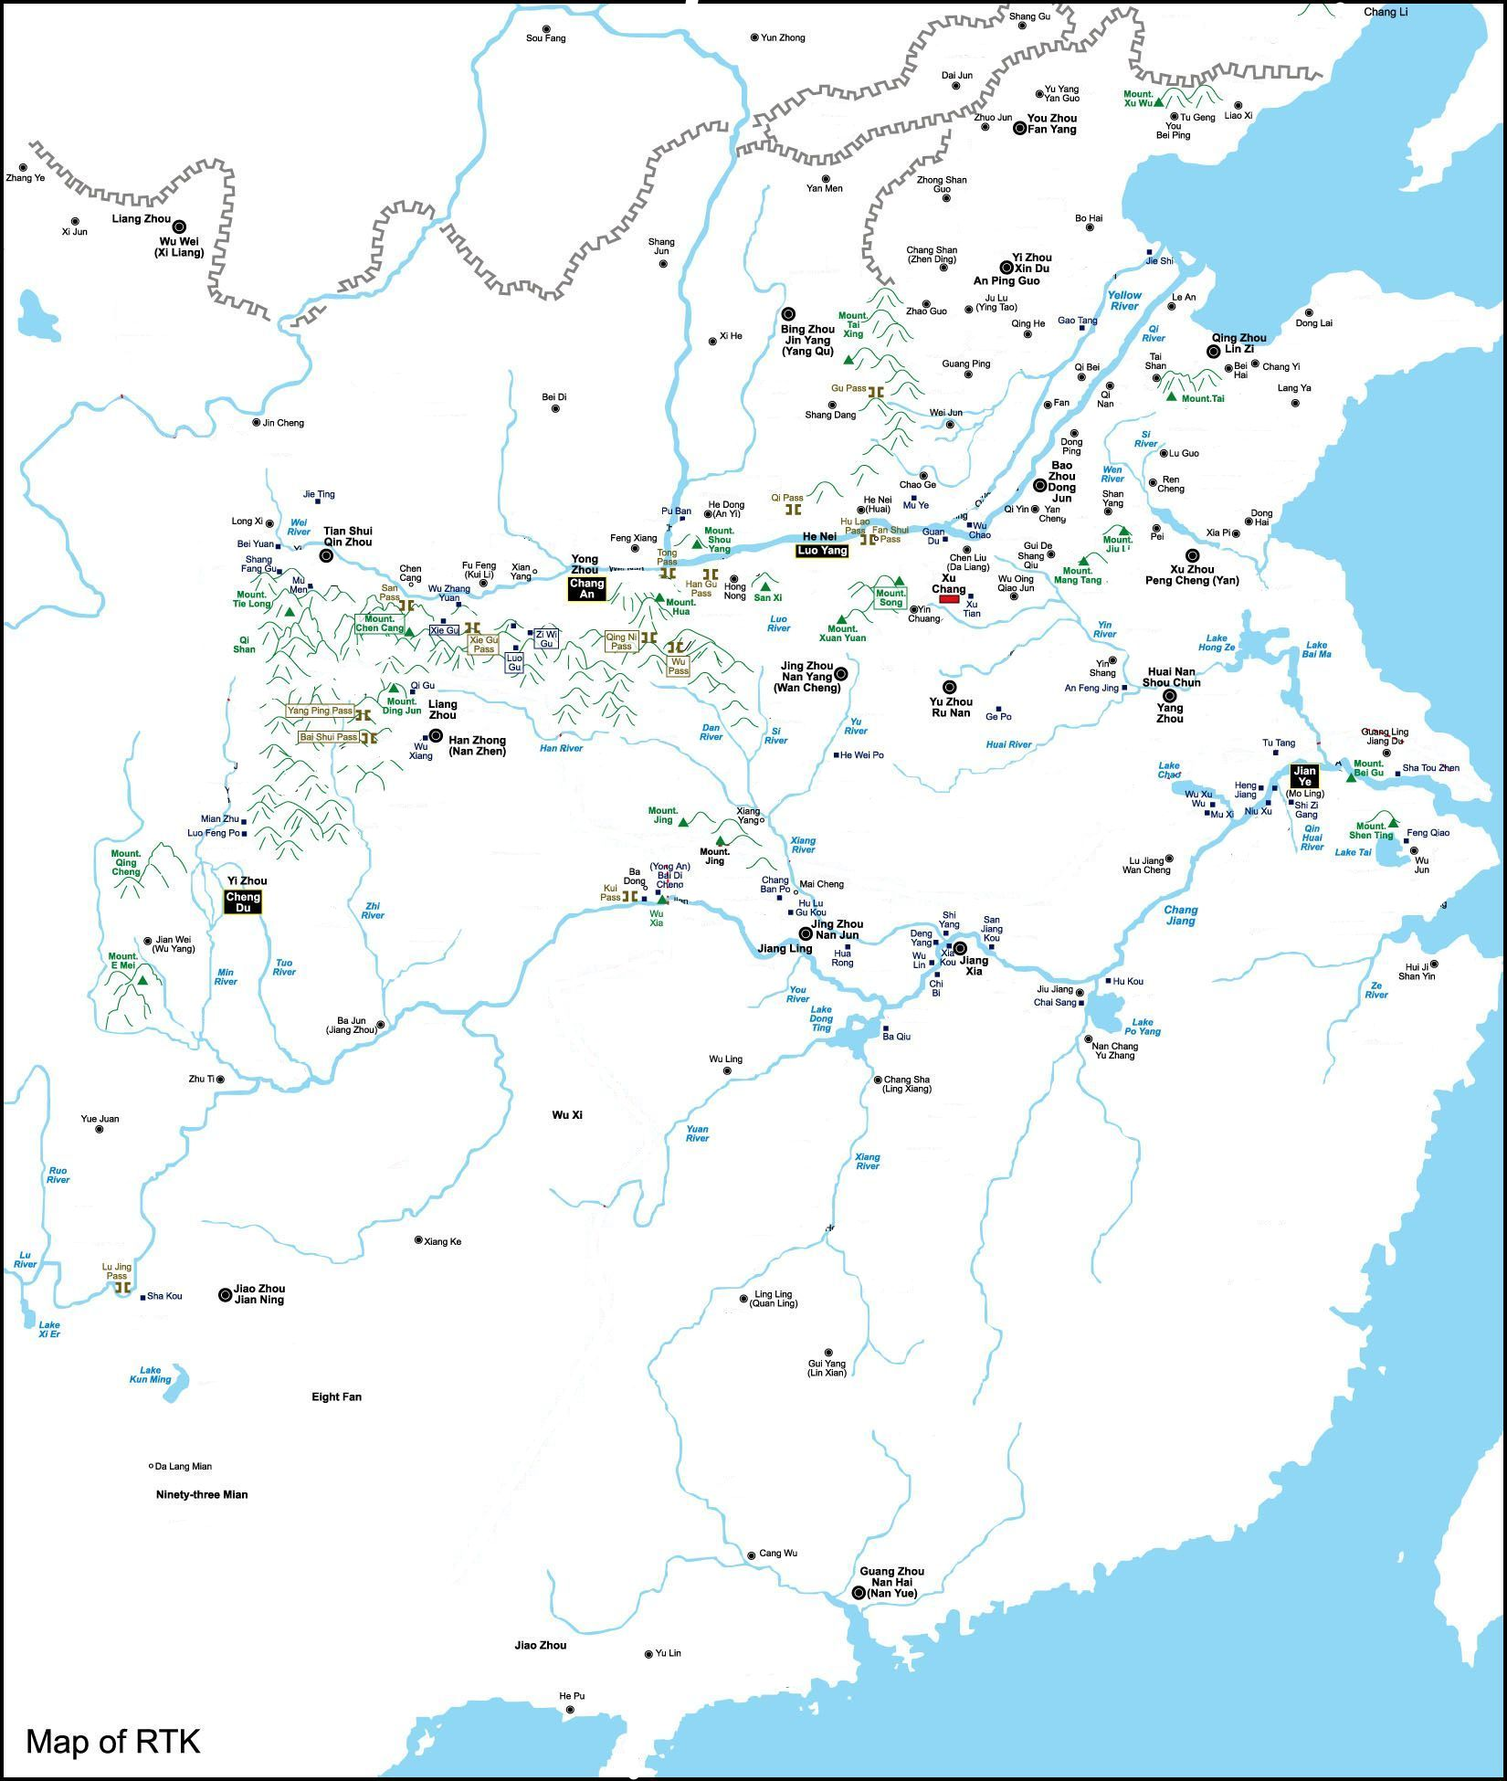
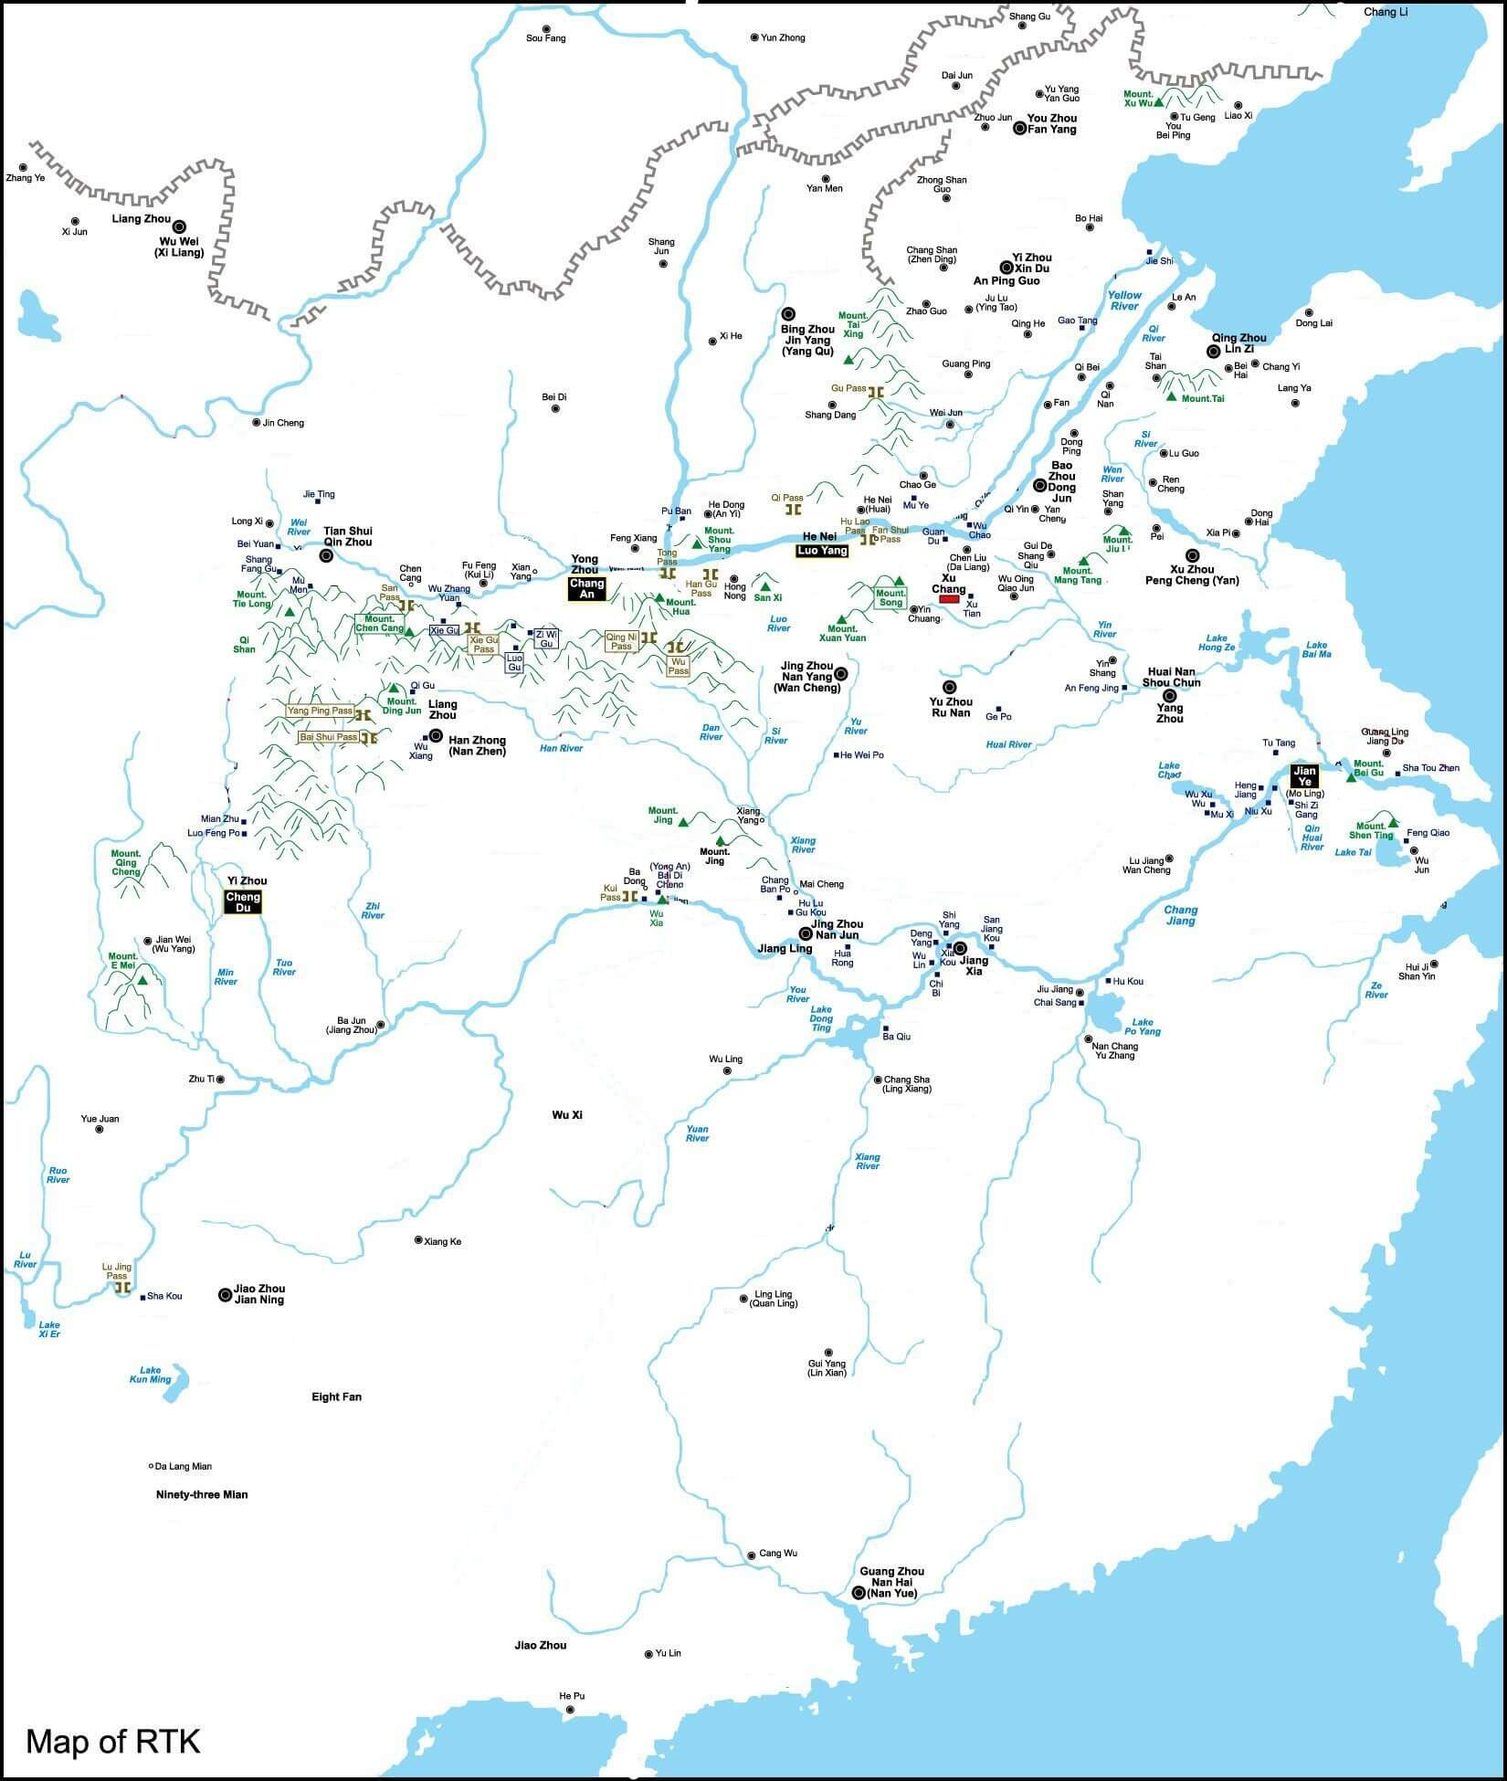
Compressed all images and recompiled

diff --git a/page/js/app.51b12fac.js b/page/js/app.51b12fac.js
@@ -1,0 +1,2 @@
+(function(){"use strict";var e={3157:function(e,t,i){var a=i(9242),o=i(3396),s=i(7139),n=i.p+"img/projectMap.0a0d6ebb.jpeg",r=i.p+"img/SWARD2.44b90788.jpeg",h=i.p+"img/1.c3b5c23a.png",l=i.p+"img/2.8c7e7f15.png",d=i.p+"img/3.e44b65ef.png",c=i.p+"img/Three_Kingdoms_timelapse.1d32699f.gif",u=i.p+"img/WTHisthislol.0641c29d.jpeg",f=i.p+"img/Poetry.de6cbcd2.png";const m={class:"topBar"},g=(0,o.Uk)("Home"),p=(0,o.Uk)("Taisei"),b=(0,o.Uk)("Maxwell"),w=(0,o.Uk)("Jackson"),v=(0,o.Uk)("Bradley"),y=(0,o.Uk)("Ethan"),T=(0,o.Uk)(" BEEENJIII!!!!!"),k=(0,o._)("div",{class:"main",id:"box1"},"The three kingdoms period of China",-1),_=(0,o._)("div",{class:"main",id:"intro"},"Introduction",-1),W=(0,o._)("div",{class:"main",id:"box2"},[(0,o.Uk)(' The Three Kingdoms (simplified Chinese: 三国; traditional Chinese: 三國) from 220 to 280 AD was the tripartite division of China among the dynastic states of Cao Wei, Shu Han, and Eastern Wu. The Three Kingdoms period was preceded by the Eastern Han dynasty and was followed by the Western Jin dynasty. The short-lived state of Yan on the Liaodong Peninsula, which lasted from 237 to 238, is sometimes considered as a "4th kingdom". To distinguish the three states from other historical Chinese states of the same names, historians have added a relevant character to the state\'s original name: the state that called itself "Wei" (魏) is also known as "Cao Wei" (曹魏), the state that called itself "Han" (漢) is also known as "Shu Han" (蜀漢) or just "Shu" (蜀), and the state that called itself "Wu" (吳) is also known as "Eastern Wu" (東吳; Dōng Wú) or "Sun Wu" (孫吳). Academically, the period of the Three Kingdoms refers to the period between the establishment of Cao Wei in 220 and the conquest of the Eastern Wu by the Western Jin in 280. The earlier, "unofficial" part of the period, from 184 to 220, was marked by chaotic infighting between warlords in various parts of China during the downfall of the Eastern Han dynasty. The middle part of the period, from 220 to 263, was marked by a more militarily stable arrangement between three rival states of Cao Wei, Shu Han, and Eastern Wu. The later part of the era was marked by the conquest of Shu by Wei in 263, the usurpation of Cao Wei by the Western Jin in 266, and the conquest of Eastern Wu by the Western Jin in 280. The Three Kingdoms period is one of the bloodiest in Chinese history. A nationwide census taken in 280 AD, following the reunification of the Three Kingdoms under the Jin shows a total of 2,459,840 households and 16,163,863 individuals which was only a fraction of the 10,677,960 households, and 56,486,856 individuals reported during the Han era. While the census may not have been particularly accurate due to a multitude of factors of the times, in 280, the Jin did make an attempt to account for all individuals where they could. Technology advanced significantly during this period. Shu chancellor Zhuge Liang invented the wooden ox, suggested to be an early form of the wheelbarrow, and improved on the repeating crossbow. Wei mechanical engineer Ma Jun is considered by many to be the equal of his predecessor Zhang Heng. He invented a hydraulic-powered, mechanical puppet theatre designed for Emperor Ming of Wei, square-pallet chain pumps for irrigation of gardens in Luoyang, and the ingenious design of the south-pointing chariot, a non-magnetic directional compass operated by differential gears. Although relatively short, this historical period has been greatly romanticized in the cultures of China, Japan, Korea, and Vietnam. It has been celebrated and popularized in operas, folk stories, novels and in more recent times, films, television, and video games. The best known of these is Luo Guanzhong\'s Romance of the Three Kingdoms, a Ming dynasty historical novel based on events in the Three Kingdoms period. The authoritative historical record of the era is Chen Shou\'s Records of the Three Kingdoms, along with Pei Songzhi\'s later annotations of the text. The English-language term "Three Kingdoms" is something of a misnomer, since each state was eventually headed not by a king, but by an emperor who claimed suzerainty over all China. Nevertheless, the term "Three Kingdoms" has become standard among English-speaking sinologists. - Wikipedia, '),(0,o._)("i",null,"Three Kingdoms")],-1),C=(0,o._)("div",{class:"main",id:"box3"},null,-1),x=(0,o._)("img",{src:n,class:"main",id:"projectMap"},null,-1),j=(0,o._)("div",{class:"main",id:"box4"},[(0,o.Uk)("Guide"),(0,o._)("br"),(0,o._)("br"),(0,o.Uk)(" For my history project, I made a poster for a special type of sesame oil which is made during the three kingdom period in China. The picture down the poster shows how it is made, a donkey drags the piece of rock and grinds the sesame into powder, which is the most traditional way of making sesame oil. The poem on top left is about how Sun Quan used sesame oil as a weapon, which is also how sesame oil is originally used in China, people also generally believed that it is a weapon instead of seasoning material. The poem on the left illustrates about how sesame oils are used in foods as well, it changes the smell and flavor with just a few drops of it. The translation of the poem: “Sesame oils aren’t just used for wars, but also seasoning. Few drops of it makes food tasty, even with grass.” The central idea of this poster is to let citizens acknowledge that sesame oils can also be used for food. "),(0,o._)("br"),(0,o.Uk)(" -Taisei ")],-1),S=(0,o._)("div",{class:"main",id:"box5"},[(0,o.Uk)("Guide"),(0,o._)("br"),(0,o._)("br"),(0,o.Uk)(' For my history project, I made a board game based on the historical Three Kingdoms time period. I based the mechanics of the game on real battles in the historical period, resources being a great factor in the game. This board game has heavy influence from Risk. Some of the most common interpretations of the time period are based on people, including the source used here. But I digress, maybe it was true for some monarchs, but the simple vision of the leader having "won" those fights is a vast oversimplification. So I based the system on the resources there, while allowing tactics at the same time. I also based the map of the game on the real map at the time. There are no borders and I also differentiated their role depending on how big the cities at the time. The board game is also complex enough that it\'s hard to predict an outcome. '),(0,o._)("br"),(0,o.Uk)(" -Maxwell ")],-1),H=(0,o._)("div",{class:"main",id:"box6"},null,-1),I=(0,o._)("div",{class:"footer"},null,-1),E=(0,o.uE)('<div class="main" id="box7">Sword Of Goujian<br><br> Sword of Goujian is a tin bronze sword renowned for its unusual shape. It was found in 1965 in the Hubei provinces. The sword is generally attributed to Goujian, one of the last kings of Yue during the Spring and Autumn period. The sword was discovered in Jiangliand Country. The sword of Goujian is 55.6cm in length, including 8.4cm in hilt. A hilt is a handle of a weapon or tool. The body of the blade is mainly made of copper, making it more pliant and less likely to shatter. The sword had no signs of tarnish. Tarnish is a dullness of colour, or cause the sword or other things to luster. <br> -Jackson </div><div class="main" id="box8">Hover to see recreation!<br><img id="SWARD2" src="'+r+'" class="electric boogaloo"><br>Masterpiece, right? </div><div class="main" id="box9">My project is a poem made by myself that talks about the dynasty of three countries. The fou.r lines each standed for four big events that affected the going of the dynasty. The first line of the poem is about the great Zhu Geliang. He was a very smart person who can even control the goings of the winds and clouds. It was easy for him to win a battle. Therefore the army wanted him to be the leader. However, he did not want to do so and the army has visited his house for three times. Then he was willing to come up and negotiate with them. The second line is about one successful battle of Zhu Geliang, which he burned a field of farmings to win. The third line is still about the famous Zhu Geliang. It talks about he divided the dynasty into three big parts in order to exchange for peace. The last sentence is the end, which describes the death of Zhu Geliang. He died of a diease. After he died, the kingdom started to fall because of lost battles. So we can see that Zhu Geliang is very important for the dynasty of the three countries. <br> -Bradley </div><div class="main" id="box10"><img src="'+h+'" class="immmg"><img src="'+l+'" class="immmg"><img src="'+d+'" class="immmg"></div>',4);function G(e,t,i,a,n,r){const h=(0,o.up)("TopBarTerm"),l=(0,o.up)("ParallaxBG");return(0,o.wg)(),(0,o.iD)(o.HY,null,[(0,o._)("div",m,[(0,o.Wm)(h,{href:"#para1"},{default:(0,o.w5)((()=>[g])),_:1}),(0,o.Wm)(h,{href:"#box4"},{default:(0,o.w5)((()=>[p])),_:1}),(0,o.Wm)(h,{href:"#box5"},{default:(0,o.w5)((()=>[b])),_:1}),(0,o.Wm)(h,{href:"#box7"},{default:(0,o.w5)((()=>[w])),_:1}),(0,o.Wm)(h,{href:"#box9"},{default:(0,o.w5)((()=>[v])),_:1}),(0,o.Wm)(h,{href:"#box10"},{default:(0,o.w5)((()=>[y])),_:1}),(0,o.Wm)(h,null,{default:(0,o.w5)((()=>[T])),_:1})]),(0,o._)("div",{class:"pagewrapper",onScroll:t[0]||(t[0]=(...e)=>this.check&&this.check(...e))},[(0,o.Wm)(l,{id:"para1","file-url":"./Picture1.jpg","css-height":"60vh","z-value":"-254"}),k,_,W,C,(0,o.Wm)(l,{id:"para2","file-url":"./Picture1.jpg","css-height":"50vh","z-value":"-2"}),x,j,(0,o.Wm)(l,{id:"para3","file-url":"./Map.jpeg","css-height":"0","z-value":"-2"}),S,H,I,(0,o.Wm)(l,{id:"para4","file-url":"./SWARD.jpeg","css-height":"0","z-value":"-1"}),E],32),(0,o._)("img",{src:c,id:"coolFloatyGif",class:(0,s.C_)((this.$data.gifClass?"show":"hide")+"CoolGif")},null,2),(0,o._)("img",{src:u,id:"coolFloatyTaisei",class:(0,s.C_)((this.$data.taiseiClass?"show":"hide")+"TaiseisEmbarrassingProject")},null,2),(0,o._)("img",{src:f,id:"coolFloatyBradley",class:(0,s.C_)((this.$data.bradleyClass?"show":"hide")+"BradleysProject")},null,2)],64)}const U={class:"topBarTerm"},B=["href"];function z(e,t,i,a,s,n){return(0,o.wg)(),(0,o.iD)("span",U,[(0,o._)("a",{href:this.$props.href},[(0,o.WI)(e.$slots,"default",{},void 0,!0)],8,B)])}var K={name:"TopBarTerm",props:{href:String}},A=i(89);const J=(0,A.Z)(K,[["render",z],["__scopeId","data-v-882585d8"]]);var O=J;function P(e,t,i,a,n,r){return(0,o.wg)(),(0,o.iD)("div",{class:"parallax",style:(0,s.j5)(r.cssVars)},[(0,o.WI)(e.$slots,"default",{},void 0,!0)],4)}var M={name:"ParallaxBG",props:{fileUrl:String,cssHeight:String,zValue:String},computed:{cssVars(){return{"--fileURL":'url("'+this.fileUrl+'")',"--height":this.cssHeight,"--zVal":this.zValue}}}};const V=(0,A.Z)(M,[["render",P],["__scopeId","data-v-59f02f39"]]);var Z=V,D={name:"App",components:{ParallaxBG:Z,TopBarTerm:O},data(){return{gifClass:!1,taiseiClass:!1,bradleyClass:!1}},methods:{isInViewport(e){const t=e.getBoundingClientRect();return t.height<=window.innerHeight?t.top>=0&&t.bottom<=(window.innerHeight||document.documentElement.clientHeight):!(t.top>=0||t.bottom<=(window.innerHeight||document.documentElement.clientHeight))},check(){this.$data.gifClass=this.isInViewport(document.querySelector("#box2")),this.$data.taiseiClass=this.isInViewport(document.querySelector("#box4")),this.$data.bradleyClass=this.isInViewport(document.querySelector("#box9"))}},created(){this.gifClass=!1,this.taiseiClass=!1,this.bradleyClass=!1}};const $=(0,A.Z)(D,[["render",G]]);var q=$;(0,a.ri)(q).mount("#app")}},t={};function i(a){var o=t[a];if(void 0!==o)return o.exports;var s=t[a]={exports:{}};return e[a](s,s.exports,i),s.exports}i.m=e,function(){var e=[];i.O=function(t,a,o,s){if(!a){var n=1/0;for(d=0;d<e.length;d++){a=e[d][0],o=e[d][1],s=e[d][2];for(var r=!0,h=0;h<a.length;h++)(!1&s||n>=s)&&Object.keys(i.O).every((function(e){return i.O[e](a[h])}))?a.splice(h--,1):(r=!1,s<n&&(n=s));if(r){e.splice(d--,1);var l=o();void 0!==l&&(t=l)}}return t}s=s||0;for(var d=e.length;d>0&&e[d-1][2]>s;d--)e[d]=e[d-1];e[d]=[a,o,s]}}(),function(){i.n=function(e){var t=e&&e.__esModule?function(){return e["default"]}:function(){return e};return i.d(t,{a:t}),t}}(),function(){i.d=function(e,t){for(var a in t)i.o(t,a)&&!i.o(e,a)&&Object.defineProperty(e,a,{enumerable:!0,get:t[a]})}}(),function(){i.g=function(){if("object"===typeof globalThis)return globalThis;try{return this||new Function("return this")()}catch(e){if("object"===typeof window)return window}}()}(),function(){i.o=function(e,t){return Object.prototype.hasOwnProperty.call(e,t)}}(),function(){i.p=""}(),function(){var e={143:0};i.O.j=function(t){return 0===e[t]};var t=function(t,a){var o,s,n=a[0],r=a[1],h=a[2],l=0;if(n.some((function(t){return 0!==e[t]}))){for(o in r)i.o(r,o)&&(i.m[o]=r[o]);if(h)var d=h(i)}for(t&&t(a);l<n.length;l++)s=n[l],i.o(e,s)&&e[s]&&e[s][0](),e[s]=0;return i.O(d)},a=self["webpackChunkintoverflow_maxwell_github_io"]=self["webpackChunkintoverflow_maxwell_github_io"]||[];a.forEach(t.bind(null,0)),a.push=t.bind(null,a.push.bind(a))}();var a=i.O(void 0,[998],(function(){return i(3157)}));a=i.O(a)})();
+//# sourceMappingURL=app.51b12fac.js.map

diff --git a/page/css/app.201a4f05.css b/page/css/app.201a4f05.css
@@ -1,0 +1,1 @@
+.topBarTerm[data-v-882585d8]{transition:background-color,.5s;margin:0;position:relative;top:0;height:100%;padding-left:20px;display:inline-flex;align-items:center;background:hsla(0,0%,100%,0)}.topBarTerm[data-v-882585d8]:after{content:"";transition:height,.7s,border-right-color,.7s;height:70%;margin-left:20px;border-right:1px solid hsla(0,0%,100%,.2)}.topBarTerm[data-v-882585d8]:hover{transition:background-color,.5s;background:hsla(0,0%,100%,.2)}.topBarTerm[data-v-882585d8]:hover:after{transition:height,.7s,border-right-color,.7s;height:100%;border-right:1px solid hsla(0,0%,100%,0)}a[data-v-882585d8]{color:#e6e6ff;text-decoration:none}.parallax[data-v-59f02f39]{width:100vw;height:var(--height);padding-top:20vh;box-sizing:border-box;transform-style:preserve-3d}.parallax[data-v-59f02f39]:before{content:"";position:absolute;width:100vw;height:100vh;top:0;left:0;background-image:var(--fileURL);z-index:var(--zVal);transform:translateZ(-1px) scale(2)}body{background:#000}.pagewrapper,body{font-family:Avenir,Helvetica,Arial,sans-serif;-webkit-font-smoothing:antialiased;-moz-osx-font-smoothing:grayscale;text-align:center;margin:0;font-size:26px;color:#2c3e50}.pagewrapper{height:100vh;perspective:1px;transform-style:preserve-3d;overflow-x:hidden;overflow-y:auto}html{overflow:hidden}.main{width:100vw;height:30vh;background:#fff;padding-top:20vh;z-index:2;position:relative}.topBar{top:0;left:0;position:absolute;margin-top:0;margin-left:0;width:100%;height:min(30%,90px);background:#191970;color:#fff;z-index:255;display:flex}.footer{width:100vw;padding-top:20vh;position:relative;top:calc(100% - min(30%, 90px));bottom:0;height:50%;z-index:255}#box1{z-index:252;background-image:linear-gradient(45deg,#191970,#ff8935);top:20vh;transform:skewY(-5deg) translateZ(-.5px) scale(1.5);color:#e6e6ff;font-size:50px}#box3{background-image:linear-gradient(45deg,#ff8935,#191970);transform:skewY(-5deg);top:-30vh}#box3,#box6{z-index:254;color:#e6e6ff;font-size:50px}#box6{background-image:linear-gradient(45deg,#191970,#ff8935);top:25vh;transform:skewY(-5deg) translateZ(-.5px) scale(1.5)}#intro{z-index:253;transform:skewY(-5deg);padding-top:30px;color:grey;font-size:40px}#box2{top:-10vh;width:auto;padding-left:50px;padding-right:min(70vh,70vw);padding-bottom:20vh;z-index:253}#box2,#box4{text-align:left;font-size:20px;height:-webkit-fit-content;height:-moz-fit-content;height:fit-content}#box4{z-index:200;background:#fff;width:calc(100% - min(70vh, 70vw) - 50px);padding:50px;padding-left:min(70vh,70vw);text-wrap:normal}#box5{background:hsla(0,0%,100%,.5);color:#000}#box5,#box7{width:auto;margin:20px;padding:30px;text-align:left;z-index:253;font-size:20px;font-weight:700;height:-webkit-fit-content;height:-moz-fit-content;height:fit-content}#box7{background:rgba(0,0,0,.5);color:#e6e6ff}#box8{margin-left:30%;margin-right:30%;width:40%;padding-top:0;margin-top:10vh;background:#fff;color:#000;text-align:left;z-index:253;font-size:20px;font-weight:700;height:-webkit-fit-content;height:-moz-fit-content;height:fit-content}#SWARD2{opacity:0}#SWARD2,#SWARD2:hover{width:100%;height:auto;z-index:252;transition:opacity,.5s}#SWARD2:hover{opacity:100%}#box9{padding-left:50px;padding-right:min(70vh,70vw);padding-bottom:20vh}#box10,#box9{top:-10vh;width:auto;text-align:left;z-index:253;font-size:20px;height:-webkit-fit-content;height:-moz-fit-content;height:fit-content}#para2:before{top:-40vh}#para4:before{top:-20vh}.hideCoolGif{opacity:0}.hideCoolGif,.showCoolGif{z-index:255;position:fixed;width:min(50vh,50vw);height:min(50vh,50vw);top:50%;transform:translateY(-50%);left:calc(100vw - min(50vh, 50vw) - 50px);background-image:url(../img/Three_Kingdoms_timelapse.1d32699f.gif);transition:opacity,.5s}.showCoolGif{opacity:100%}.hideTaiseisEmbarrassingProject{opacity:0}.hideTaiseisEmbarrassingProject,.showTaiseisEmbarrassingProject{z-index:255;position:fixed;width:min(50vh,50vw);height:auto;top:50%;transform:translateY(-50%);left:50px;background-image:url(../img/WTHisthislol.0641c29d.jpeg);transition:opacity,.5s}.showTaiseisEmbarrassingProject{opacity:100%}.hideBradleysProject{opacity:0}.hideBradleysProject,.showBradleysProject{z-index:255;position:fixed;width:min(50vh,50vw);height:auto;top:50%;transform:translateY(-50%);right:50px;background-image:url(../img/Poetry.de6cbcd2.png);transition:opacity,.5s}.showBradleysProject{opacity:100%}#projectMap,.immmg{z-index:250;padding-top:0;width:100%;height:auto}

diff --git a/page/index.html b/page/index.html
@@ -7,8 +7,8 @@
     <link rel="icon" href="favicon.ico">
     <title>intoverflow-maxwell.github.io</title>
     <script defer="defer" src="js/chunk-vendors.58e44f49.js"></script>
-    <script defer="defer" src="js/app.95bd7d87.js"></script>
-    <link href="css/app.b3c94ae2.css" rel="stylesheet">
+    <script defer="defer" src="js/app.51b12fac.js"></script>
+    <link href="css/app.201a4f05.css" rel="stylesheet">
 </head>
 <body>
 <noscript><strong>We're sorry but intoverflow-maxwell.github.io doesn't work properly without JavaScript enabled. Please
